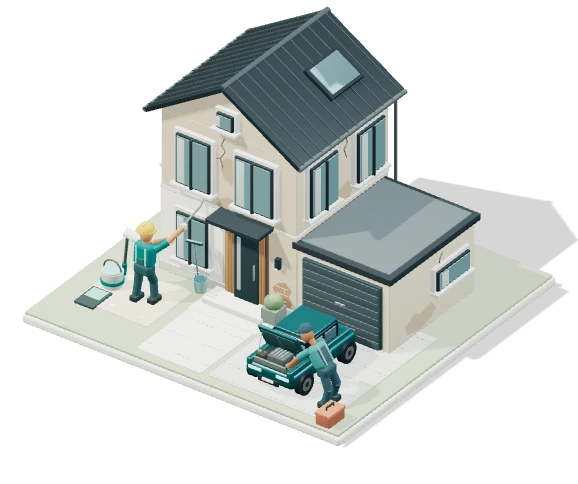
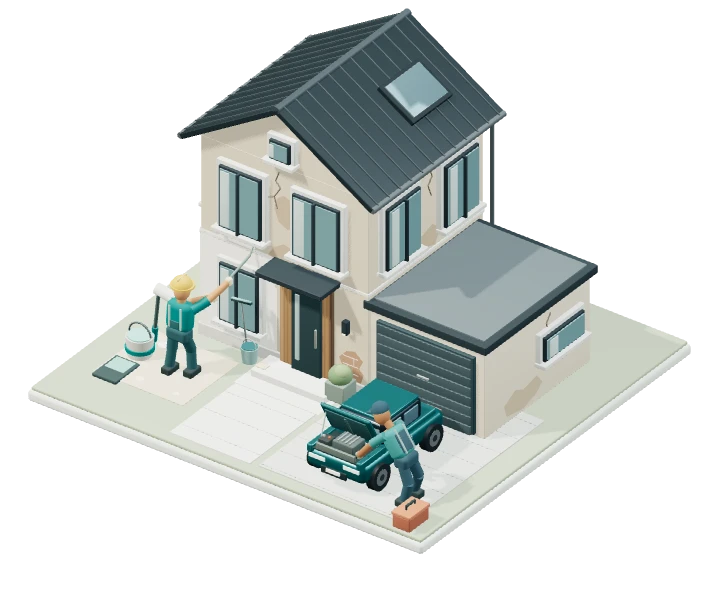
update 5

diff --git a/src/app/home-hero/desktop-home-animations.js b/src/app/home-hero/desktop-home-animations.js
@@ -4,44 +4,22 @@ import { SplitText } from "gsap/SplitText";
 
 gsap.registerPlugin(ScrollTrigger, SplitText);
 
-export function mountHomeAnimations(root, { desktop }) {
-  const blur = root.querySelector("[data-desktop-blur]");
-  const activeTransitions = new Set();
+export function mountHomeAnimations(root) {
   const splits = [];
-  const updateBlur = (trigger) => {
-    if (trigger.isActive) activeTransitions.add(trigger);
-    else activeTransitions.delete(trigger);
-    blur.style.display = activeTransitions.size ? "block" : "none";
-  };
 
   const context = gsap.context(() => {
-    if (desktop) {
-      const hero = root.querySelector("[data-desktop-hero]");
-      const content = root.querySelector("[data-desktop-hero-content]");
-      gsap.to(content, {
-        autoAlpha: .3, y: "-40vh", scale: .94, ease: "none",
-        scrollTrigger: {
-          trigger: hero, pin: hero, start: "clamp(bottom bottom)", end: "+=100%",
-          scrub: true, pinSpacing: false, invalidateOnRefresh: true,
-          onToggle: updateBlur, onRefresh: updateBlur,
-        },
+    root.querySelectorAll("[data-promotion-heading]").forEach((heading) => {
+      const split = SplitText.create(heading, { type: "lines", mask: "lines", autoSplit: true,
+        onSplit: (instance) => gsap.fromTo(instance.lines, { opacity: 0, yPercent: 100, rotation: 1 }, {
+          opacity: 1, yPercent: 0, rotation: 0, duration: .5, stagger: .2, ease: "sine.out",
+          scrollTrigger: { trigger: heading, start: "top 90%", toggleActions: "play none none reset" },
+        }),
       });
-
-      root.querySelectorAll("[data-scroll-blur]").forEach((section) => {
-        ScrollTrigger.create({ trigger: section, start: "top bottom", end: "bottom bottom", onToggle: updateBlur, onRefresh: updateBlur });
-      });
-    }
-
-    const heading = root.querySelector("[data-promotion-heading]");
-    const split = SplitText.create(heading, { type: "lines", mask: "lines", autoSplit: true,
-      onSplit: (instance) => gsap.fromTo(instance.lines, { yPercent: 100, rotation: 1 }, {
-        yPercent: 0, rotation: 0, duration: .5, stagger: .2, ease: "sine.out",
-        scrollTrigger: { trigger: heading, start: "top 90%", toggleActions: "play none none reset" },
-      }),
+      splits.push(split);
     });
-    splits.push(split);
 
-    root.querySelectorAll("[data-promotion-item]").forEach((item, index) => {
+    root.querySelectorAll("[data-promotion-item]").forEach((item) => {
+      const index = Array.from(item.parentElement.children).indexOf(item);
       gsap.fromTo(item, { opacity: 0, y: 50 }, {
         opacity: 1, y: 0, duration: .5, delay: index * .15, ease: "sine.out", force3D: "auto",
         onStart: () => { item.style.willChange = "transform, opacity"; },
@@ -70,7 +48,5 @@ export function mountHomeAnimations(root, { desktop }) {
     splits.forEach((split) => split.revert());
     context.revert();
     root.querySelectorAll("[data-promotion-item]").forEach((item) => item.style.removeProperty("will-change"));
-    activeTransitions.clear();
-    blur.style.removeProperty("display");
   };
 }

diff --git a/src/app/home-promotions/service-promotion.module.css b/src/app/home-promotions/service-promotion.module.css
@@ -1,0 +1,40 @@
+.section { border-top: 1px solid #e5ebe7; background: #fff; color: #19312e; }
+.container { width: min(100% - 64px, 1120px); margin: 0 auto; padding: 3rem 0; }
+.container h2 { margin: 0; text-align: center; font-size: clamp(1.25rem, 2.5vw, 1.75rem); font-weight: 800; line-height: 1.25; letter-spacing: -.025em; }
+.grid { display: grid; grid-template-columns: repeat(3, minmax(0, 1fr)); gap: 1.5rem; margin: 1.75rem 0 0; padding: 0; list-style: none; }
+.grid li { min-width: 0; }
+.card { display: flex; height: 100%; flex-direction: column; align-items: center; border: 1px solid #e2eae5; border-radius: .85rem; background: #fbfcfb; padding: 1.5rem 1.25rem; text-align: center; text-decoration: none; transition: border-color 180ms ease, background 180ms ease; }
+.icon { display: grid; width: 3.5rem; height: 3.5rem; flex: none; place-items: center; border-radius: 50%; background: #e3eee7; color: #008080; }
+.icon svg { width: 1.75rem; height: 1.75rem; }
+.copy { min-width: 0; margin-top: 1rem; }
+.copy h3 { font-size: 1rem; font-weight: 750; line-height: 1.4; letter-spacing: -.015em; }
+.copy p { margin-top: .35rem; color: #64746d; font-size: .8125rem; line-height: 1.6; }
+.action { display: inline-flex; min-height: 2.75rem; align-items: center; gap: .6rem; margin-top: .75rem; color: #007975; font-size: .8125rem; font-weight: 750; }
+.arrow { width: 1.15rem; height: 1.15rem; flex: none; transition: transform 180ms ease; }
+.card:hover .arrow { transform: translate(2px, -2px); }
+.card:hover { border-color: #a8cec2; background: #f1f7f3; }
+.card:focus-visible { outline: 2px solid #008080; outline-offset: 4px; }
+@media (max-width: 999px) {
+  .container { width: calc(100% - 48px); }
+  .grid { gap: 1rem; }
+}
+@media (max-width: 849px) {
+  .container h2 { font-size: 1.5rem; }
+}
+@media (max-width: 699px) {
+  .container { padding: 2rem 0; }
+  .grid { grid-template-columns: minmax(0, 1fr); gap: .75rem; margin-top: 1.25rem; }
+  .card { display: grid; grid-template-columns: 2.75rem minmax(0, 1fr); align-items: center; gap: 0 .85rem; padding: 1rem; text-align: left; }
+  .icon { width: 2.75rem; height: 2.75rem; }
+  .icon svg { width: 1.4rem; height: 1.4rem; }
+  .copy { margin-top: 0; }
+  .copy p { margin-top: .2rem; }
+  .action { grid-column: 2; justify-self: start; margin-top: .2rem; }
+}
+@media (max-width: 479px) {
+  .container { width: calc(100% - 28px); }
+}
+@media (prefers-reduced-motion: reduce) {
+  .card, .arrow { transition: none; }
+  .card:hover .arrow { transform: none; }
+}

diff --git a/src/app/home-hero/home-hero.module.css b/src/app/home-hero/home-hero.module.css
@@ -39,10 +39,11 @@
 }
 .primary { border-radius: .55rem; background: #008080; padding: 0 1.15rem; color: white; box-shadow: 0 5px 15px #00808014; }
 .primary:hover { background: #006b69; transform: translateY(-2px); }
-.primary > span { font-size: 1.2rem; }
+.arrow { width: 1.15rem; height: 1.15rem; flex: none; transition: transform 180ms ease; }
+.primary:hover .arrow { transform: translate(2px, -2px); }
+.secondary:hover .arrow { transform: translateX(2px); }
 .secondary { color: #3c514a; }
 .secondary:hover { color: #008080; }
-.secondary > span[aria-hidden] { font-size: 1.05rem; }
 .visual {
   position: relative;
   min-width: 0;
@@ -52,6 +53,7 @@
 .scene { position: absolute; inset: 0; cursor: grab; opacity: 0; }
 .sceneReady { opacity: 1; }
 .scene:active { cursor: grabbing; }
+.scene canvas { touch-action: pan-y pinch-zoom !important; }
 .fallback { position: relative; width: 100%; height: 100%; }
 .poster { object-fit: contain; }
 .hero a:focus-visible { outline: 2px solid #008080; outline-offset: 4px; }
@@ -78,13 +80,15 @@
   .secondary { min-height: 2.75rem; gap: .65rem; font-size: .8rem; font-weight: 700; color: #006f6d; }
   .secondary { text-decoration: underline; text-underline-offset: .2rem; text-decoration-color: #b3ccc4; }
   .visual { width: 100%; height: clamp(14rem, 65vw, 23rem); }
-  /* Override OrbitControls' inline touch rule so phone users can scroll past the scene. */
-  .scene canvas { touch-action: pan-y pinch-zoom !important; }
+}
+@media (pointer: coarse) {
+  .scene, .scene:active { cursor: auto; pointer-events: none; }
 }
 @media (max-width: 479px) {
   .inner { padding-top: 1.25rem; }
 }
 @media (prefers-reduced-motion: reduce) {
-  .primary, .secondary { transition: none; }
+  .primary, .secondary, .arrow { transition: none; }
+  .primary:hover .arrow, .secondary:hover .arrow { transform: none; }
   .primary:hover { transform: none; }
 }

diff --git a/src/app/home-hero/HomeScrollTransition.jsx b/src/app/home-hero/HomeScrollTransition.jsx
@@ -1,14 +1,11 @@
 "use client";
 
 import { useEffect, useRef } from "react";
-import { DESKTOP_MOTION_QUERY } from "./desktop-motion";
-import styles from "./home-scroll-transition.module.css";
 
 export default function HomeScrollTransition({ hero, children }) {
   const rootRef = useRef(null);
 
   useEffect(() => {
-    const media = window.matchMedia(DESKTOP_MOTION_QUERY);
     const motion = window.matchMedia("(prefers-reduced-motion: no-preference)");
     let dispose;
     let revision = 0;
@@ -20,26 +17,23 @@ export default function HomeScrollTransition({ hero, children }) {
       try {
         const { mountHomeAnimations } = await import("./desktop-home-animations");
         if (current === revision && motion.matches) {
-          dispose = mountHomeAnimations(rootRef.current, { desktop: media.matches });
+          dispose = mountHomeAnimations(rootRef.current);
         }
       } catch (error) {
         console.error("Homepage animations could not load.", error);
       }
     };
     update();
-    media.addEventListener("change", update);
     motion.addEventListener("change", update);
     return () => {
       revision++;
       dispose?.();
-      media.removeEventListener("change", update);
       motion.removeEventListener("change", update);
     };
   }, []);
 
   return <div ref={rootRef}>
-    <div className={styles.hero} data-desktop-hero=""><div data-desktop-hero-content="">{hero}</div></div>
-    <div className={styles.nextSection}>{children}</div>
-    <div className={styles.blur} data-desktop-blur="" aria-hidden="true">{Array.from({ length: 8 }, (_, index) => <div key={index} className={styles.blurLayer} style={{ "--blur": `${2 ** index / 12.8}px`, "--start": `${index * 12.5}%`, "--middle": `${(index + 1) * 12.5}%`, "--end": `${(index + 2) * 12.5}%` }} />)}</div>
+    {hero}
+    {children}
   </div>;
 }

diff --git a/src/app/home-promotions/ServicePromotion.jsx b/src/app/home-promotions/ServicePromotion.jsx
@@ -1,0 +1,37 @@
+import Link from "next/link";
+import ServiceIcon from "../ServiceIcon";
+import styles from "./service-promotion.module.css";
+
+const services = [
+  { id: "painters", title: "Malerarbeiten", description: "Frische Farbe für Ihr Zuhause." },
+  { id: "cleaning", title: "Reinigung", description: "Mehr Zeit. Ein sauberes Zuhause." },
+  { id: "auto_repair", title: "Autoreparatur", description: "Hilfe für Ihr Auto vor Ort." },
+];
+
+export default function ServicePromotion() {
+  return (
+    <section className={styles.section} aria-labelledby="service-promotion-heading">
+      <div className={styles.container}>
+        <h2 id="service-promotion-heading" data-promotion-heading="">Wobei brauchen Sie Hilfe?</h2>
+        <ul className={styles.grid}>
+          {services.map((service) => (
+            <li key={service.id} data-promotion-item="">
+              <Link href={`/services/${service.id}`} className={styles.card}>
+                <span className={styles.icon}><ServiceIcon type={service.id} /></span>
+                <div className={styles.copy}>
+                  <h3>{service.title}</h3>
+                  <p>{service.description}</p>
+                </div>
+                <span className={styles.action}>Entdecken
+                  <svg className={styles.arrow} viewBox="0 0 24 24" fill="none" stroke="currentColor" strokeWidth="1.75" strokeLinecap="round" strokeLinejoin="round" aria-hidden="true">
+                    <path d="M7 17 17 7M7 7h10v10" />
+                  </svg>
+                </span>
+              </Link>
+            </li>
+          ))}
+        </ul>
+      </div>
+    </section>
+  );
+}

diff --git a/src/app/home-hero/HomeHero.jsx b/src/app/home-hero/HomeHero.jsx
@@ -70,8 +70,12 @@ export default function HomeHero() {
           <p className={styles.description}>Maler, Reinigung und Autoreparatur in Ihrer Nähe.</p>
           <HeroSearch />
           <div className={styles.actions}>
-            <Link className={styles.primary} href="/dienstleister">Dienstleister entdecken <span aria-hidden="true">↗</span></Link>
-            <Link className={styles.secondary} href="/add-company">Unternehmen eintragen <span aria-hidden="true">→</span></Link>
+            <Link className={styles.primary} href="/dienstleister">Dienstleister entdecken
+              <svg className={styles.arrow} viewBox="0 0 24 24" fill="none" stroke="currentColor" strokeWidth="1.75" strokeLinecap="round" strokeLinejoin="round" aria-hidden="true"><path d="M7 17 17 7M7 7h10v10" /></svg>
+            </Link>
+            <Link className={styles.secondary} href="/add-company">Unternehmen eintragen
+              <svg className={styles.arrow} viewBox="0 0 24 24" fill="none" stroke="currentColor" strokeWidth="1.75" strokeLinecap="round" strokeLinejoin="round" aria-hidden="true"><path d="M5 12h14m-6-6 6 6-6 6" /></svg>
+            </Link>
           </div>
         </div>
         <div className={styles.visual} ref={visualRef} role="img" aria-label="3D-Haus mit einem Maler an der Fassade und einem Mechaniker, der das Auto bei geöffneter Motorhaube repariert">

diff --git a/src/app/home-hero/HomeScene.jsx b/src/app/home-hero/HomeScene.jsx
@@ -3,7 +3,7 @@
 import { useEffect, useRef } from "react";
 import { Canvas, useFrame, useThree } from "@react-three/fiber";
 import { Environment, Lightformer, OrbitControls } from "@react-three/drei";
-import { MOUSE, TOUCH } from "three";
+import { MOUSE } from "three";
 import HouseModel from "./HouseModel";
 
 const target = [0.2, 1.1, 0.35];
@@ -43,7 +43,7 @@ function ViewControls({ autoRotate, active, onInteract }) {
     autoRotate={autoRotate && active}
     autoRotateSpeed={0.45}
     mouseButtons={{ LEFT: MOUSE.ROTATE, MIDDLE: null, RIGHT: null }}
-    touches={{ ONE: TOUCH.ROTATE, TWO: TOUCH.ROTATE }}
+    touches={{ ONE: null, TWO: null }}
     onStart={onInteract}
   />;
 }
@@ -93,7 +93,6 @@ export default function HomeScene({ active, reducedMotion, fallback, rotating, o
         <Lightformer intensity={1.5} position={[0, 7, 0]} rotation={[Math.PI / 2, 0, 0]} scale={[8, 8, 1]} />
       </Environment>
       <HouseModel />
-      <mesh rotation={[-Math.PI / 2, 0, 0]} position={[0, -0.09, 0]} receiveShadow><planeGeometry args={[200, 200]} /><shadowMaterial transparent opacity={0.16} /></mesh>
       <ViewControls autoRotate={autoRotate} active={active} onInteract={onInteract} />
       <SceneReady onReady={onReady} />
     </Canvas>

diff --git a/src/app/home-promotions/HomePromotions.jsx b/src/app/home-promotions/HomePromotions.jsx
@@ -2,6 +2,7 @@ import BenefitsStrip from "./BenefitsStrip";
 import PromotionIcon from "./PromotionIcon";
 import styles from "./home-promotions.module.css";
 import ActionChoices from "./ActionChoices";
+import ServicePromotion from "./ServicePromotion";
 
 const benefits = [
   { title: "Für Ihr Zuhause", description: "Malerarbeiten & Reinigung", mobileTitle: "Zuhause", mobileDescription: "Malen & Reinigen" },
@@ -32,7 +33,7 @@ export default function HomePromotions() {
     <>
       <BenefitsStrip benefits={benefits} />
 
-      <section className={styles.promotionSection} aria-labelledby="promotion-heading" data-scroll-blur="">
+      <section className={styles.promotionSection} aria-labelledby="promotion-heading">
         <div className={`${styles.container} ${styles.promotionContainer}`}>
           <header className={styles.promotionHeading}>
             <h2 id="promotion-heading" data-promotion-heading="">ServiceHub verbindet.</h2>
@@ -52,6 +53,7 @@ export default function HomePromotions() {
       </section>
 
       <ActionChoices />
+      <ServicePromotion />
     </>
   );
 }

diff --git a/src/app/home-promotions/ActionChoices.jsx b/src/app/home-promotions/ActionChoices.jsx
@@ -12,7 +12,7 @@ function Arrow() {
 }
 
 export default function ActionChoices() {
-  return <section className={styles.section} aria-labelledby="how-it-works-heading" data-scroll-blur="">
+  return <section className={styles.section} aria-labelledby="how-it-works-heading">
     <div className={styles.container}>
       <div className={styles.layout}>
         <header className={styles.intro}>
